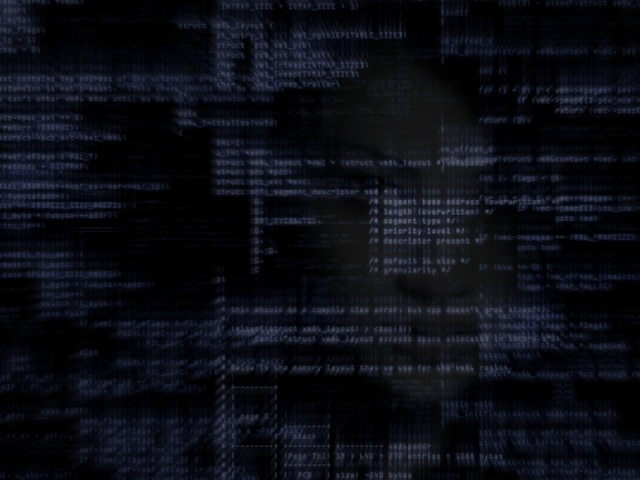
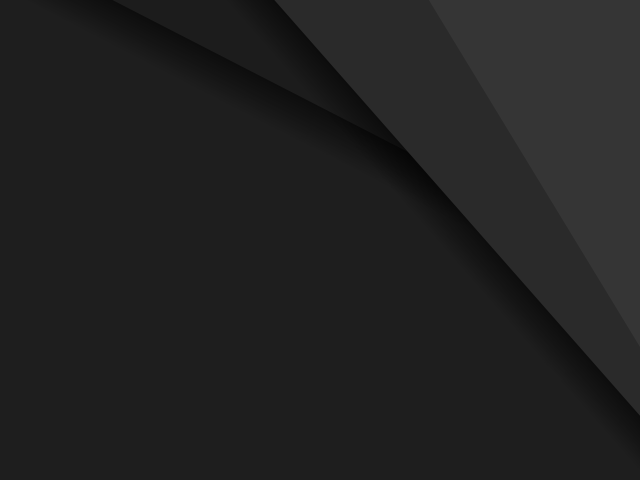
New background wallpaper

diff --git a/GodlikeStickCreator/ViewModels/ManageViewModel.cs b/GodlikeStickCreator/ViewModels/ManageViewModel.cs
@@ -47,13 +47,21 @@ namespace GodlikeStickCreator.ViewModels
                     window.ShowDialog();
                     if (currentBackgroundPath != SysLinuxConfigFile.SysLinuxAppearance.ScreenBackground)
                     {
-                        if (!string.IsNullOrEmpty(SysLinuxConfigFile.SysLinuxAppearance.ScreenBackground))
-                            File.Copy(SysLinuxConfigFile.SysLinuxAppearance.ScreenBackground,
-                                Path.Combine(Drive.RootDirectory.FullName, "multiboot", "background.png"));
-                        else
-                            WpfUtilities.WriteResourceToFile(
-                                new Uri("pack://application:,,,/Resources/SysLinuxFiles/background.png"),
-                                Path.Combine(Drive.RootDirectory.FullName, "multiboot", "background.png"));
+                        try
+                        {
+                            if (!string.IsNullOrEmpty(SysLinuxConfigFile.SysLinuxAppearance.ScreenBackground))
+                                File.Copy(SysLinuxConfigFile.SysLinuxAppearance.ScreenBackground,
+                                    Path.Combine(Drive.RootDirectory.FullName, "multiboot", "background.png"), true);
+                            else
+                                WpfUtilities.WriteResourceToFile(
+                                    new Uri("pack://application:,,,/Resources/SysLinuxFiles/background.png"),
+                                    Path.Combine(Drive.RootDirectory.FullName, "multiboot", "background.png"));
+                        }
+                        catch (IOException ex)
+                        {
+                            MessageBoxEx.Show(_window, "Failed to replace background.png: " + ex.Message,
+                                "Error replacing file", MessageBoxButton.OK, MessageBoxImage.Error);
+                        }
                     }
                     SysLinuxConfigFile.Save();
                 }));

diff --git a/GodlikeStickCreator/Controls/ChangeSysLinuxInterfaceControl.xaml.cs b/GodlikeStickCreator/Controls/ChangeSysLinuxInterfaceControl.xaml.cs
@@ -79,7 +79,6 @@ namespace GodlikeStickCreator.Controls
                         BackgroundImage = new BitmapImage(new Uri(ofd.FileName, UriKind.RelativeOrAbsolute));
                         SysLinuxAppearance.ScreenBackground = ofd.FileName;
                         OnPropertyChanged(nameof(SysLinuxAppearance));
-
                     }
                 }));
             }
@@ -92,9 +91,19 @@ namespace GodlikeStickCreator.Controls
         {
             var control = (ChangeSysLinuxInterfaceControl) dependencyObject;
             var sysLinuxAppearance = dependencyPropertyChangedEventArgs.NewValue as SysLinuxAppearance;
-            control.BackgroundImage = new BitmapImage(string.IsNullOrEmpty(sysLinuxAppearance?.ScreenBackground)
-                ? new Uri("/Resources/SysLinuxFiles/background.png", UriKind.Relative)
-                : new Uri(sysLinuxAppearance.ScreenBackground, UriKind.RelativeOrAbsolute));
+            control.BackgroundImage = string.IsNullOrEmpty(sysLinuxAppearance?.ScreenBackground)
+                ? new BitmapImage(new Uri("/Resources/SysLinuxFiles/background.png", UriKind.Relative))
+                : LoadBitmapImageIntoMemory(new Uri(sysLinuxAppearance.ScreenBackground, UriKind.RelativeOrAbsolute));
+        }
+
+        private static BitmapImage LoadBitmapImageIntoMemory(Uri uri)
+        {
+            var bitmapImage = new BitmapImage();
+            bitmapImage.BeginInit();
+            bitmapImage.CacheOption = BitmapCacheOption.OnLoad;
+            bitmapImage.UriSource = uri;
+            bitmapImage.EndInit();
+            return bitmapImage;
         }
 
         [NotifyPropertyChangedInvocator]

diff --git a/GodlikeStickCreator/Core/SysLinuxConfigFile.cs b/GodlikeStickCreator/Core/SysLinuxConfigFile.cs
@@ -81,14 +81,8 @@ MENU DEFAULT";
 
         private void Load(string content)
         {
-            var contentHeader =
-                Regex.Match(content, @"# <Header>\s*(?<header>(.*?))\s*# <\/Header>", RegexOptions.Singleline).Groups[
-                    "header"].Value;
-            var defaultHeader = GetDefaultHeader();
-            if (contentHeader != defaultHeader)
-                content = content.Replace(contentHeader, defaultHeader);
-
             _content = content;
+            UpdateHeader();
             ParseEntries();
         }
 
@@ -229,6 +223,16 @@ MENU COLOR unsel	    37;44   (?<unselectedForeground>(#.*?)) (?<unselectedBackgr
             RemoveSystem(systemInfo.Name);
         }
 
+        private void UpdateHeader()
+        {
+            var contentHeader =
+                Regex.Match(_content, @"# <Header>\s*(?<header>(.*?))\s*# <\/Header>", RegexOptions.Singleline).Groups[
+                    "header"].Value;
+            var defaultHeader = GetDefaultHeader();
+            if (contentHeader != defaultHeader)
+                _content = _content.Replace(contentHeader, defaultHeader);
+        }
+
         private void RemoveSystem(string name)
         {
             var openTag = $"\t# <{name.Replace(" ", null)} ";
@@ -277,6 +281,7 @@ MENU COLOR unsel	    37;44   (?<unselectedForeground>(#.*?)) (?<unselectedBackgr
 
         public void Save()
         {
+            UpdateHeader();
             File.WriteAllText(_filename, _content);
         }
 

diff --git a/GodlikeStickCreator/Core/Config/SysLinuxAppearance.cs b/GodlikeStickCreator/Core/Config/SysLinuxAppearance.cs
@@ -12,14 +12,14 @@ namespace GodlikeStickCreator.Core.Config
             ScreenMessage = "What is Dead May Never Die";
             ScreenBackground = string.Empty;
             ReturnToMainMenuText = "Return to the main menu.";
-            TitleForegroundColor = Color.FromRgb(41, 128, 185);
+            TitleForegroundColor = Color.FromRgb(190, 190, 190);
             TitleBackgroundColor = Color.FromArgb(0, 0, 0, 0);
-            SelectedBackgroundColor = Color.FromRgb(255, 255, 255);
+            SelectedBackgroundColor = Color.FromRgb(209, 209, 209);
             SelectedForegroundColor = Color.FromRgb(0, 0, 0);
-            BorderForegroundColor = Color.FromRgb(41, 128, 185);
+            BorderForegroundColor = Color.FromArgb(180, 190, 190, 190);
             BorderBackgroundColor = Color.FromArgb(0, 0, 0, 0);
-            TabMsgForegroundColor = Color.FromRgb(255, 255, 255);
-            UnselectedForegroundColor = Color.FromRgb(255, 255, 255);
+            TabMsgForegroundColor = Color.FromRgb(190, 190, 190);
+            UnselectedForegroundColor = Color.FromRgb(190, 190, 190);
             UnselectedBackgroundColor = Color.FromArgb(0, 0, 0, 0);
         }
 

diff --git a/GodlikeStickCreator/ViewModels/AboutViewModel.cs b/GodlikeStickCreator/ViewModels/AboutViewModel.cs
@@ -76,6 +76,13 @@ namespace GodlikeStickCreator.ViewModels
                     Website = "http://designmodo.com/",
                     License = "CC 3.0",
                     LicenseUrl = "https://creativecommons.org/licenses/by/3.0/"
+                },
+                new ImageCreator
+                {
+                    Name = "Starline (Freepik)",
+                    Website = "http://www.freepik.com/free-photos-vectors/background",
+                    License = "CC 3.0",
+                    LicenseUrl = "https://creativecommons.org/licenses/by/3.0/"
                 }
             };
 
